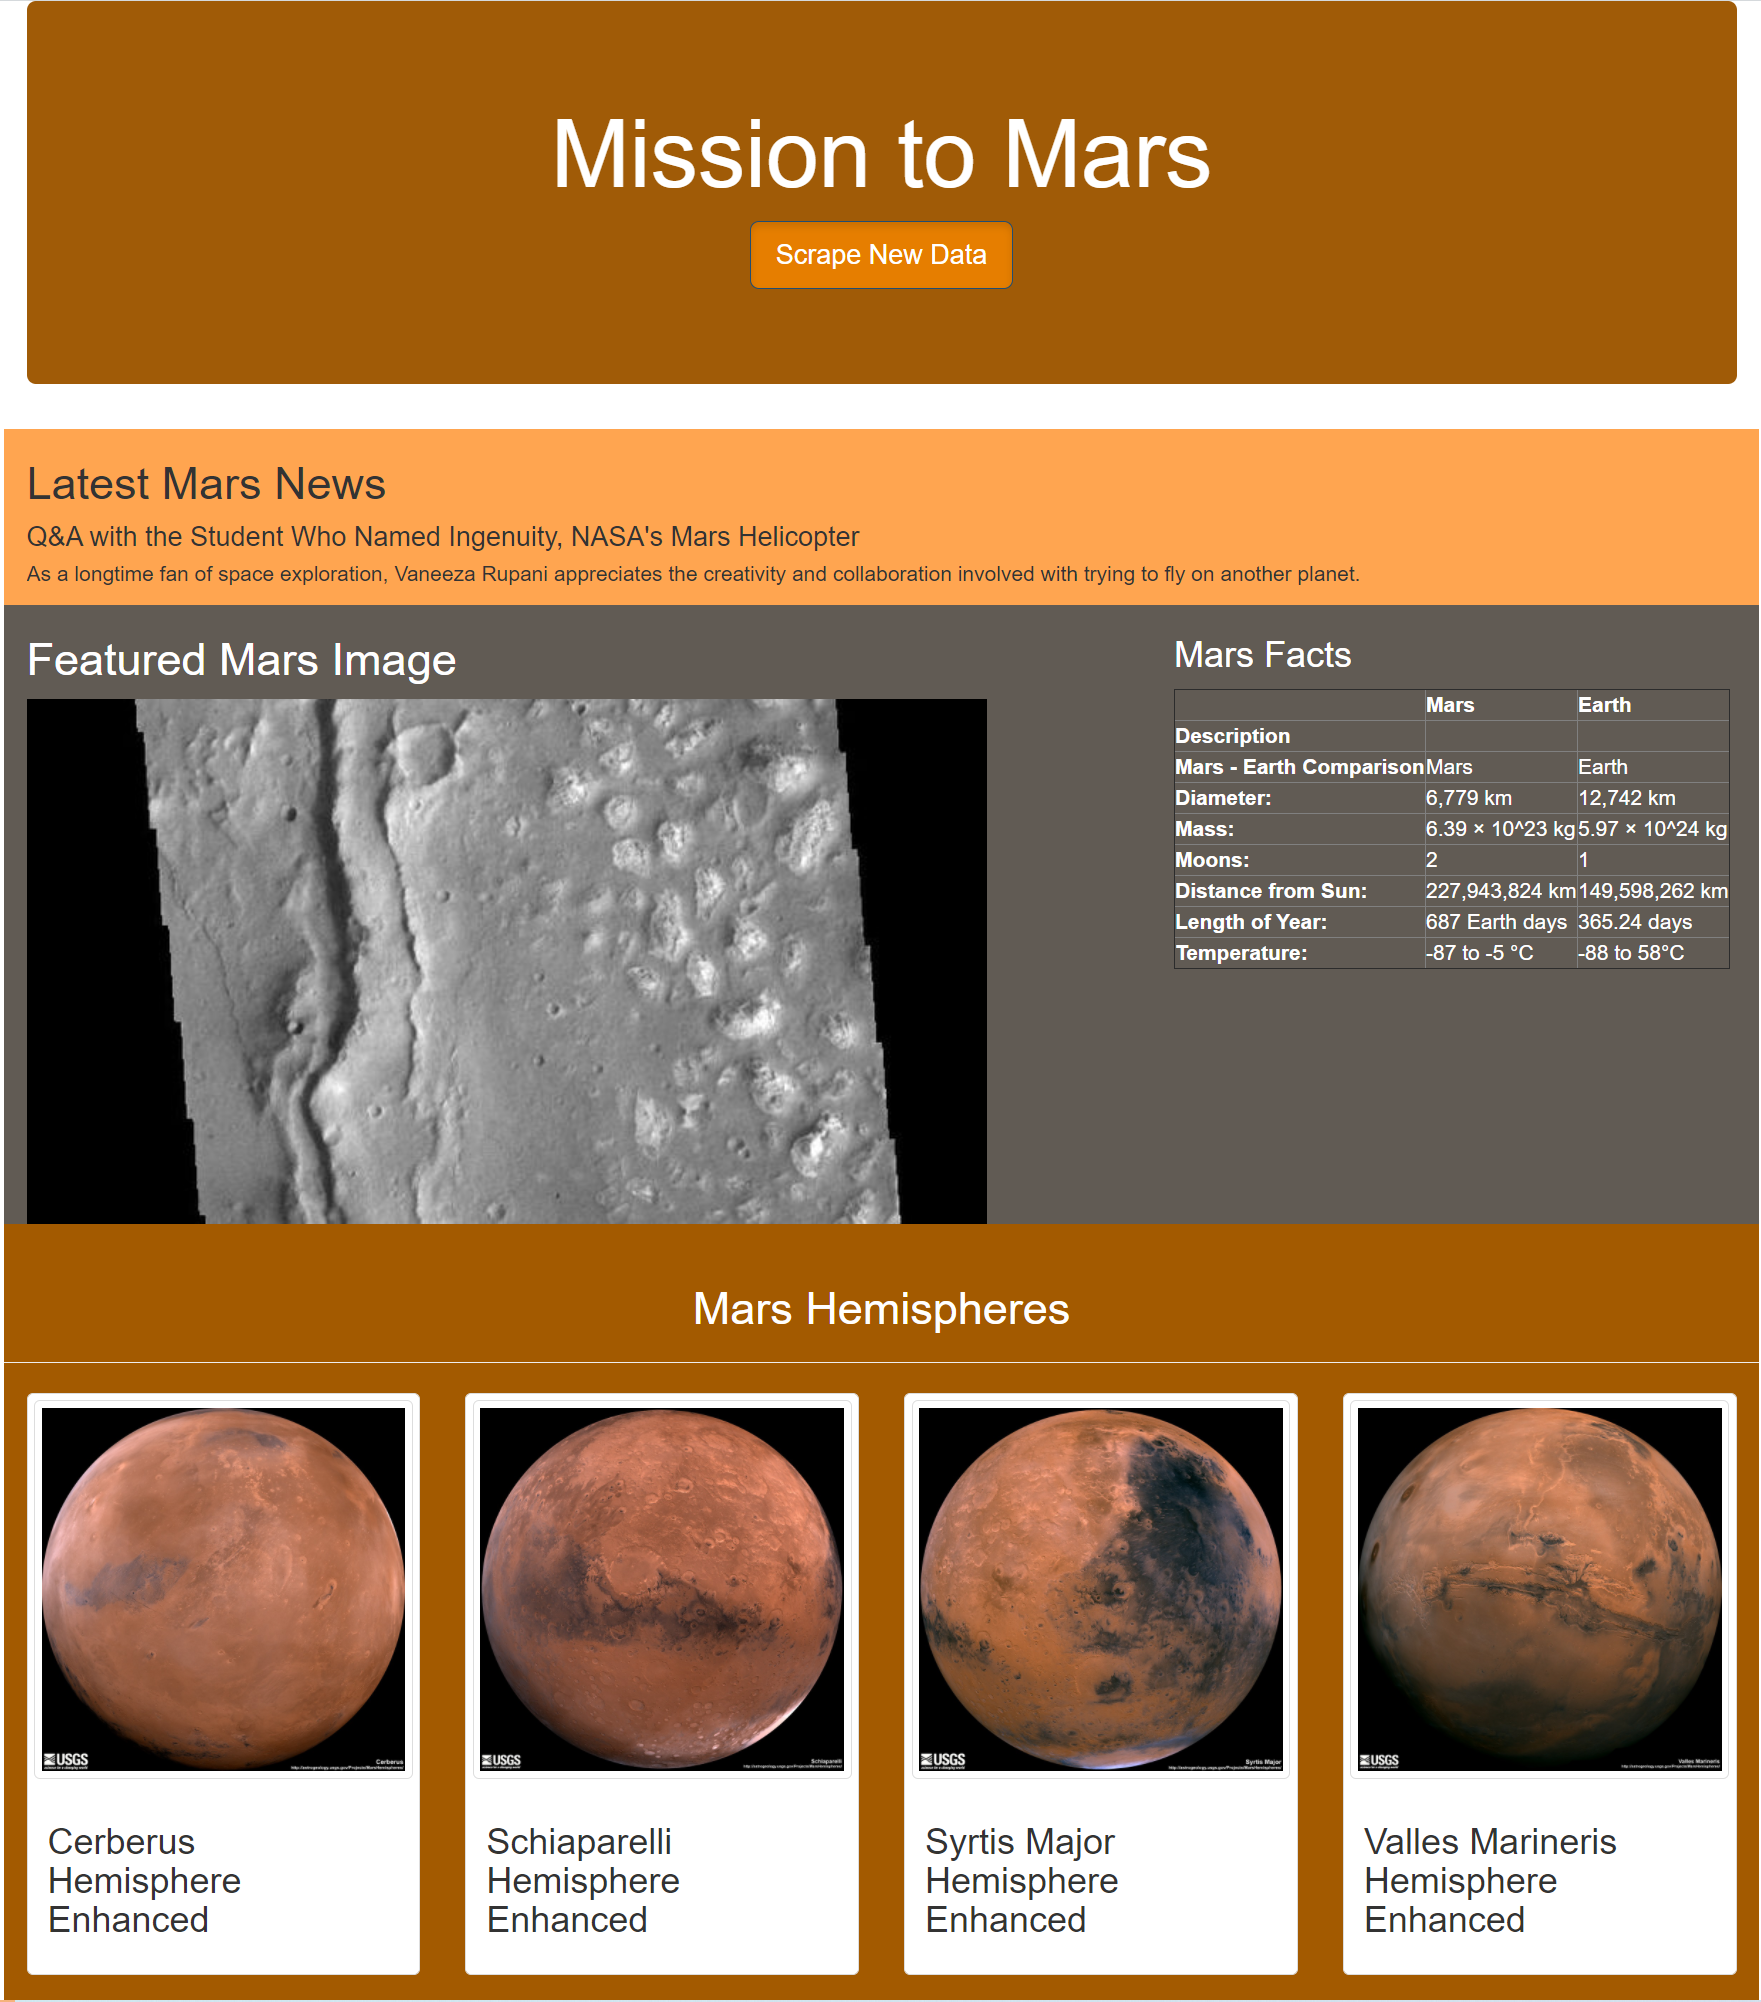
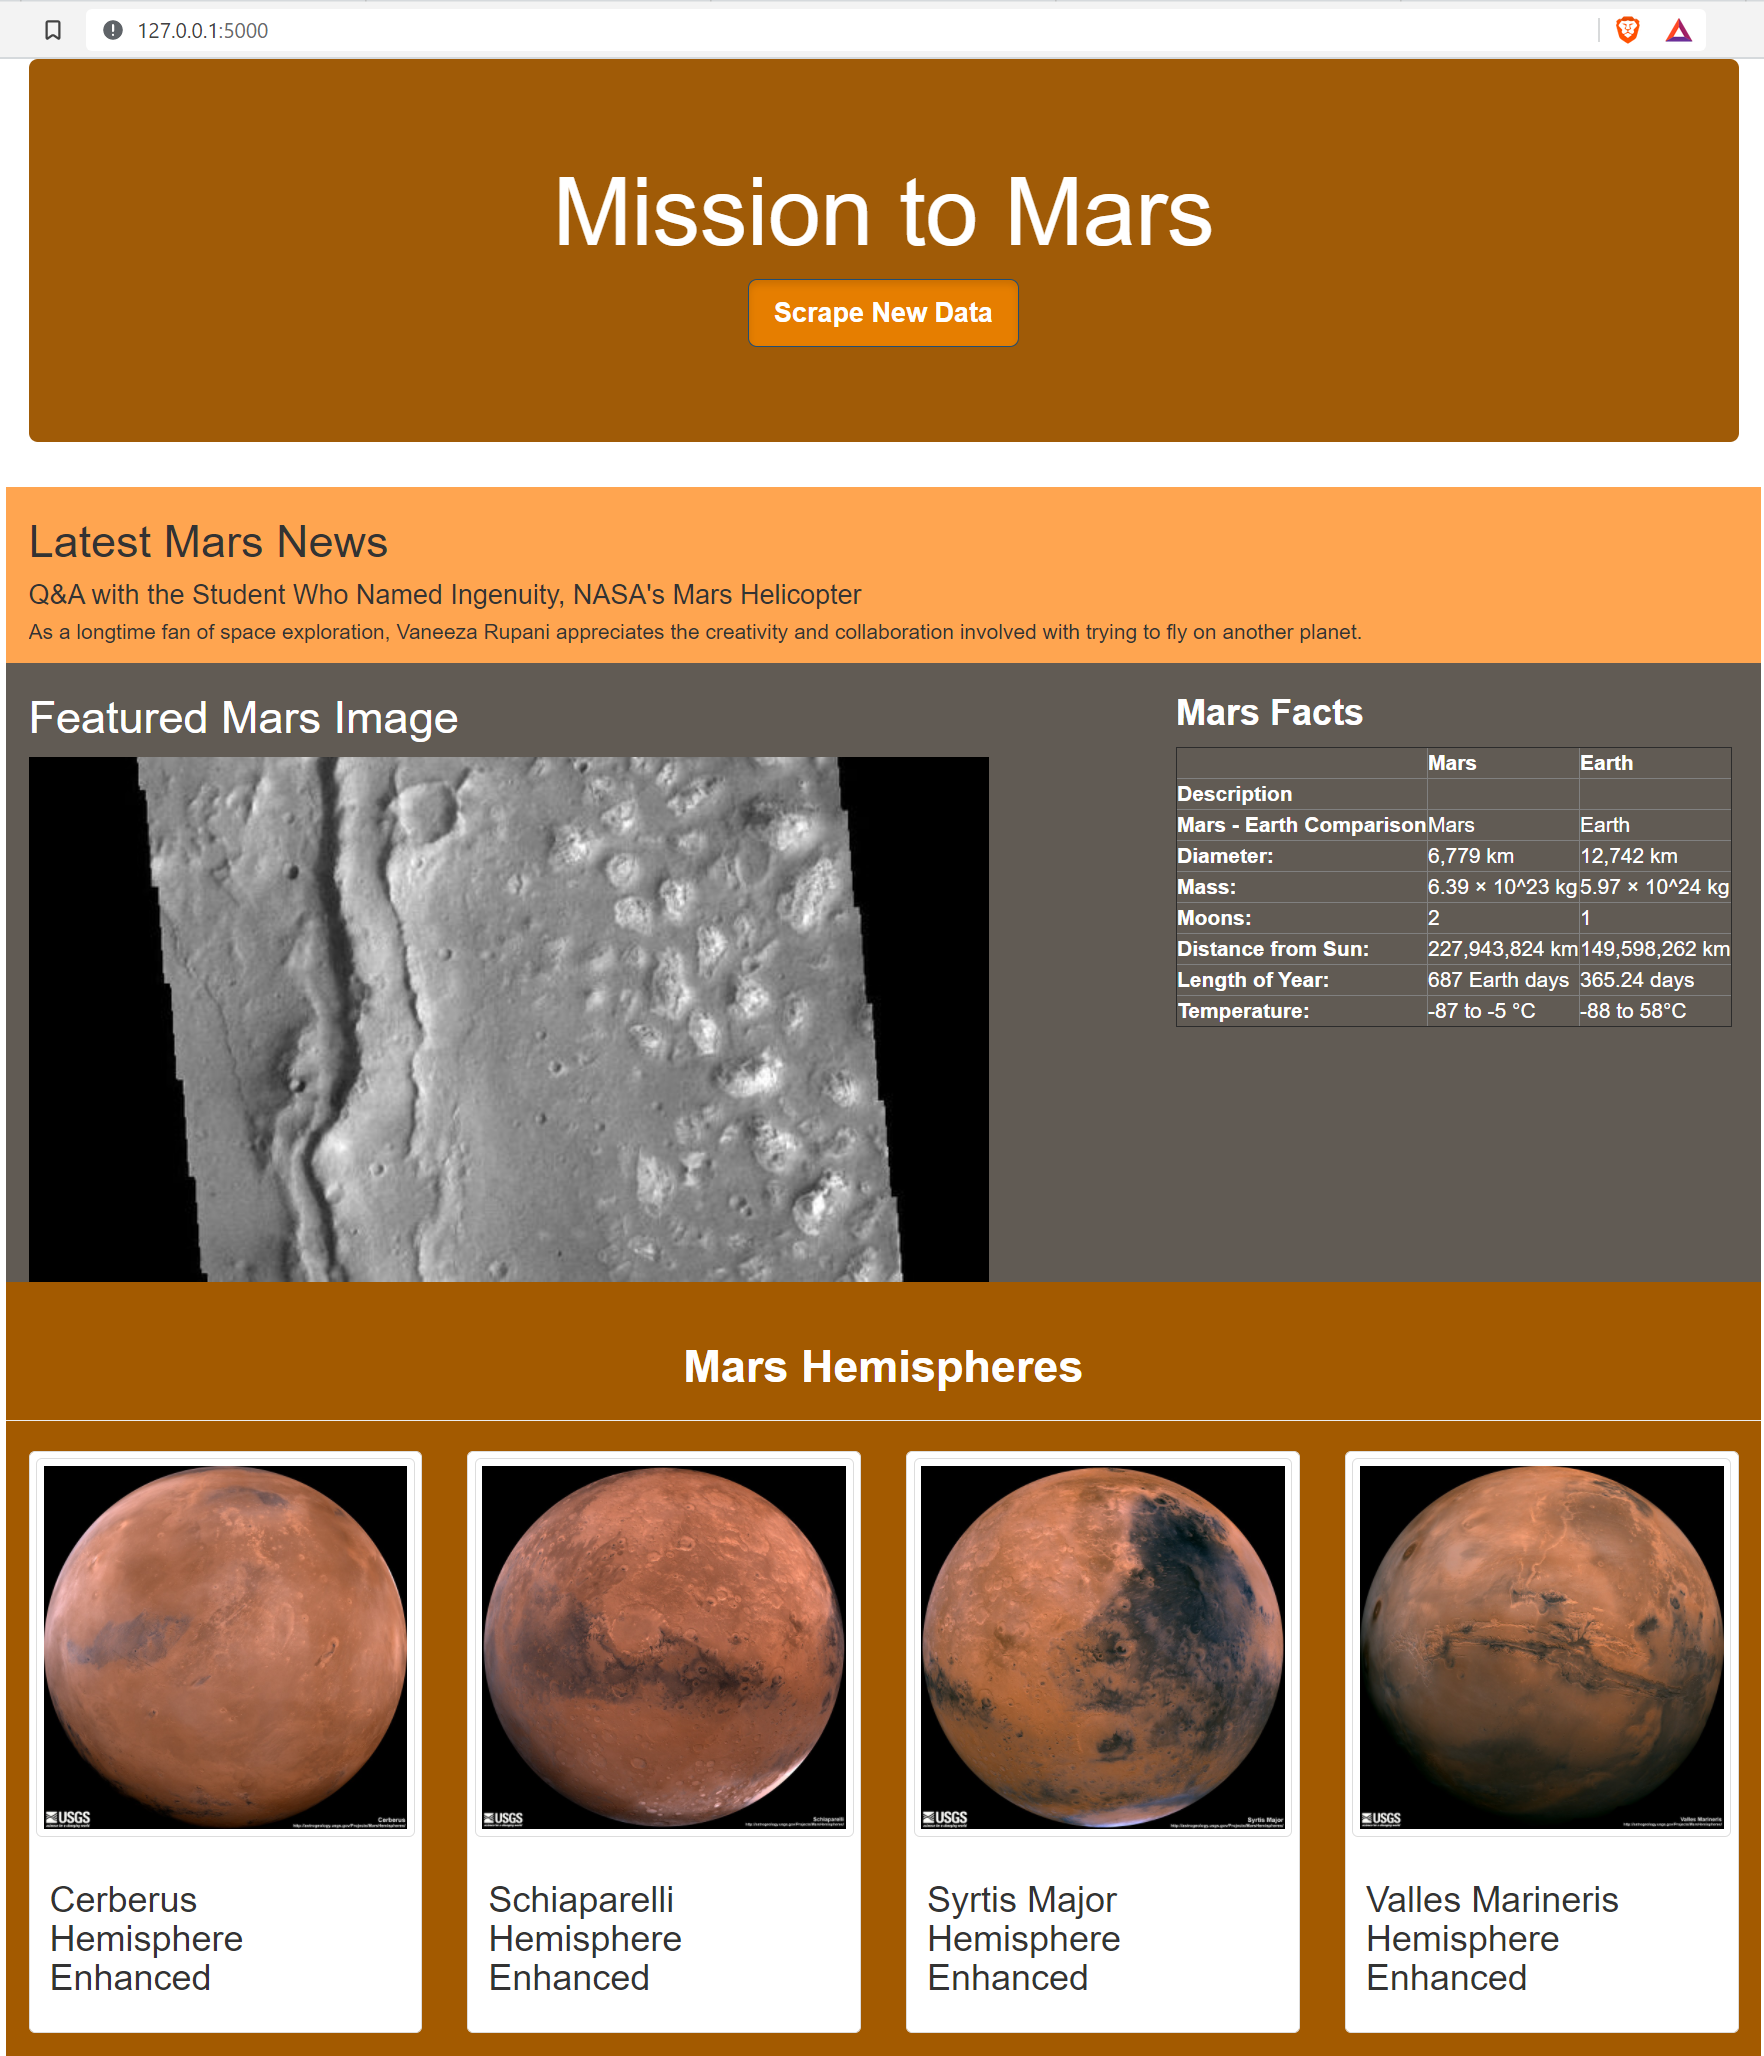
fixed image

Changed region(s): [[0.0, 0.0619, 1.0, 1.0], [0.0, 0.0, 0.9994, 0.031]]

diff --git a/templates/index.html b/templates/index.html
@@ -16,7 +16,7 @@
       <div class="jumbotron text-center" style = "background-color: #a05b07">
         <h1 style = "color:#ffffff">Mission to Mars</h1>
         <!-- Add a button to activate scraping script -->
-        <p><a class="btn btn-primary btn-lg active" style = "background-color: #e67e00" href="/scrape" role="button">Scrape New Data</a></p>
+        <p><a class="btn btn-primary btn-lg active" style = "background-color: #e67e00" href="/scrape" role="button"><strong>Scrape New Data</strong></a></p>
       </div>
 
       <!-- Add section for Mars News -->
@@ -48,7 +48,7 @@
         <div class="col-md-4" style = "color: #ffffff">
           <!-- Mars Facts -->
           <div class="row" id="mars-facts" style = "color: #ffffff">
-            <h3 style = "color:#ffffff">Mars Facts</h3>
+            <h3 style = "color:#ffffff"><strong>Mars Facts</strong></h3>
             {{ mars.facts | safe }}
           </div>
         </div>
@@ -57,7 +57,7 @@
       <!-- Section for Mars Hemispheres -->
       <div class="row" id="mars-hemispheres" style = "background-color: #a35a00">
         <div class="page-header">
-          <h2 class="text-center" style = "color:#ffffff">Mars Hemispheres</h2>
+          <h2 class="text-center" style = "color:#ffffff"><strong>Mars Hemispheres</strong></h2>
         </div>
 
         {% for hemisphere in mars.hemisphere_image %}
